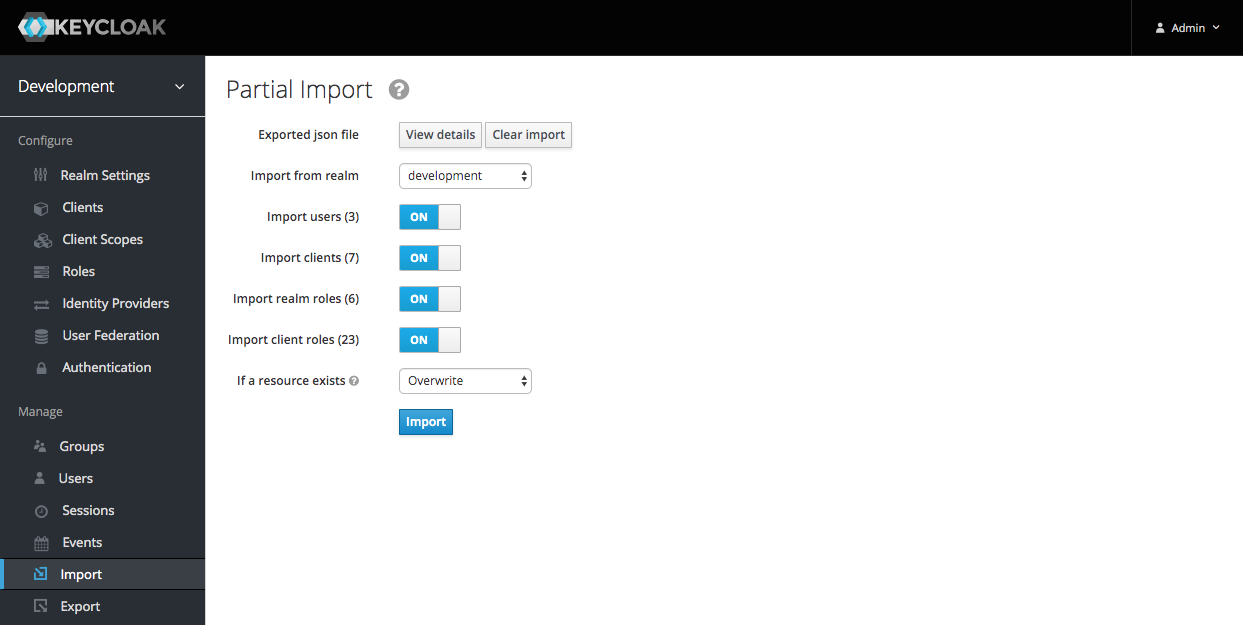
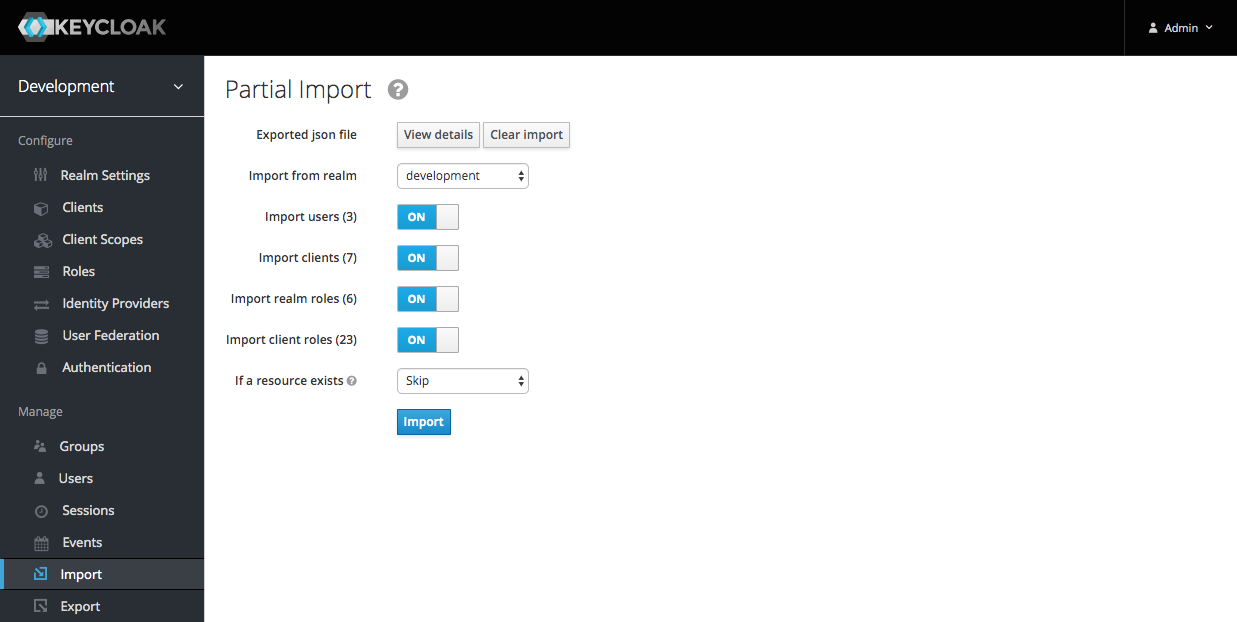
Updated the Developer Documentation

diff --git a/docs/developer.md b/docs/developer.md
@@ -119,7 +119,7 @@ Click 'Import' in the sidemenu and then select the file to import ([keycloak-exp
   <img src="https://github.com/Robinyo/serendipity/blob/master/screen-shots/partial-import.png">
 </p>
 
-Select 'Import from realm' (development), 'If a resource exists: Overwrite' and then Click the 'Import' button.
+Select 'Import from realm' (development), 'If a resource exists: Skip' and then Click the 'Import' button.
 
 It's only a partial import :( so we will need to use the Administration Console to:
 
